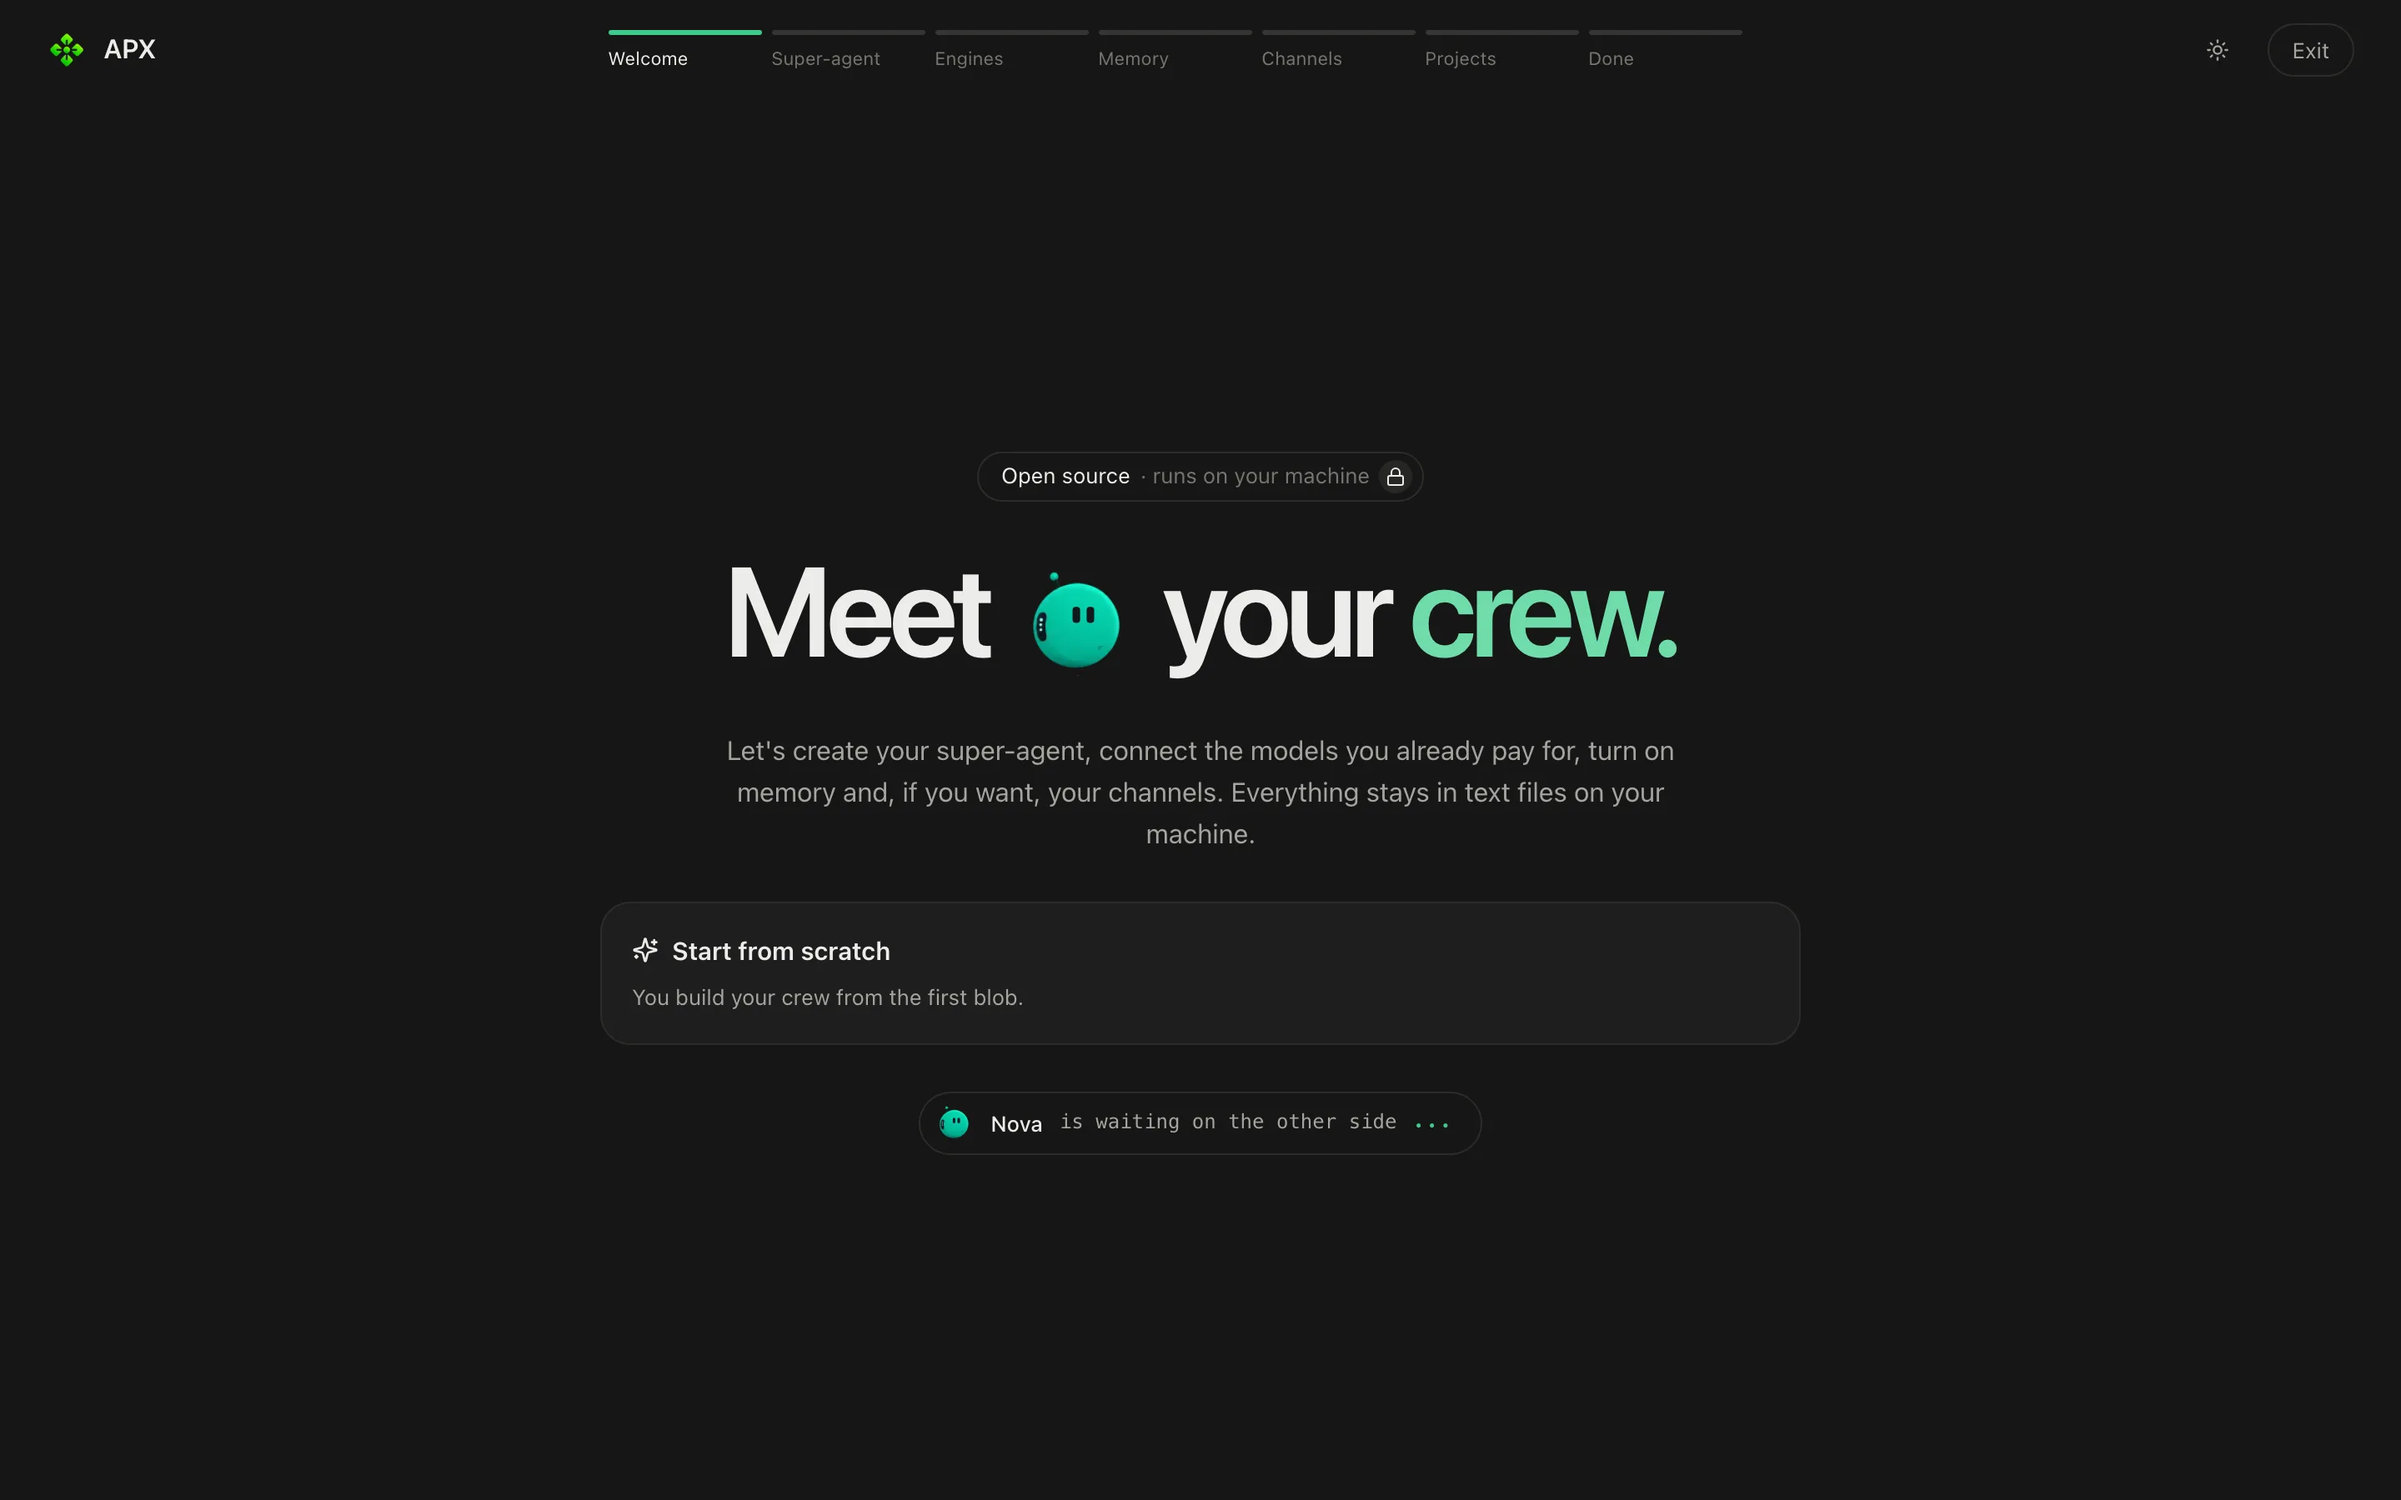
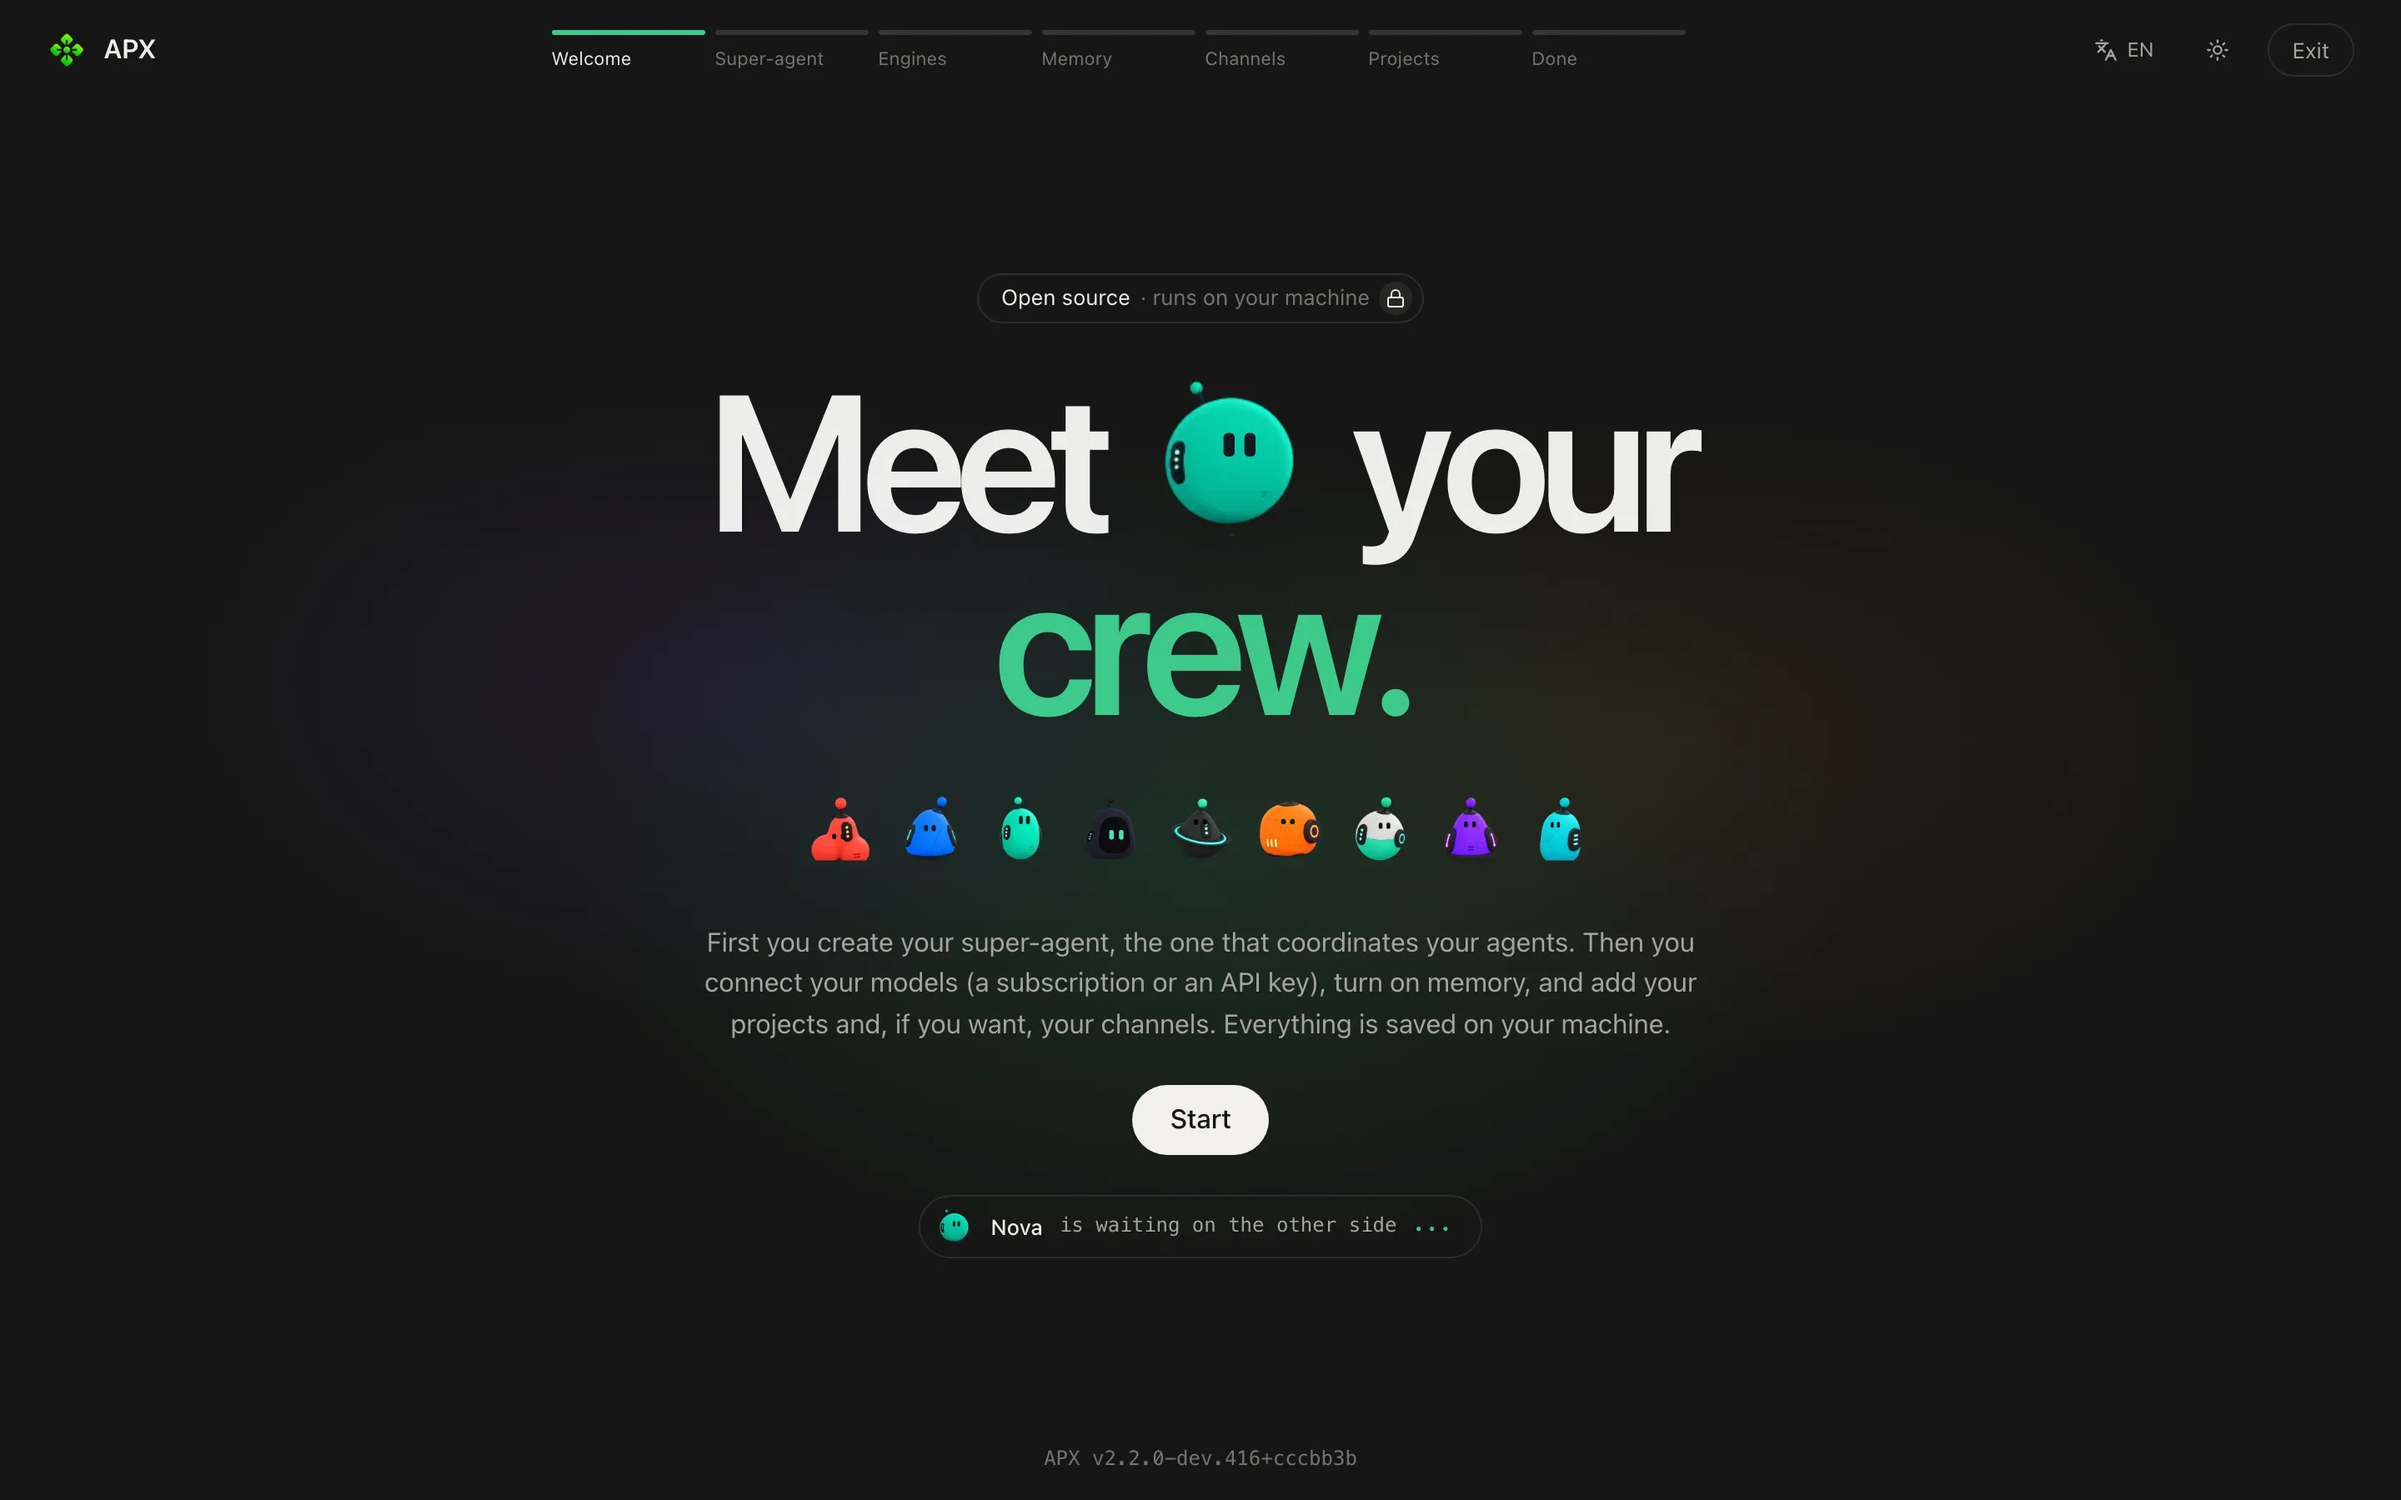
fix(setup): the welcome says what the setup builds, agents and projects included, and where it is kept
It sounded like a sale ("the models you already pay for") and said everything stayed in text files, which v2's
local database no longer is. It now names the super-agent that coordinates the agents, the models, memory, projects
and channels, and says everything is saved on this machine. The docs and the engines step follow.

diff --git a/apps/web/src/i18n/es-setup.ts b/apps/web/src/i18n/es-setup.ts
@@ -20,13 +20,13 @@ export const esSetup: Partial<Record<MessageKey, string>> = {
   "setup.welcome.installed": "APX está instalado",
   "setup.welcome.installedMuted": "· y andando",
   "setup.welcome.installedBody":
-    "Te damos la bienvenida. APX ya está instalado y listo; ahora armamos tu crew: tu super-agente, los modelos que ya pagás, la memoria y, si querés, tus canales.",
+    "Te damos la bienvenida. APX ya está instalado; ahora armamos tu crew: tu super-agente, tus modelos, la memoria, tus proyectos y, si querés, tus canales.",
   "setup.welcome.pill": "Open source",
   "setup.welcome.pillMuted": "· corre en tu máquina",
   "setup.welcome.meet": "Conocé",
   "setup.welcome.your": "a tu",
   "setup.welcome.body":
-    "Vamos a crear tu super-agente, conectar los modelos que ya pagás, prender la memoria y, si querés, tus canales. Todo queda en archivos de texto en tu máquina.",
+    "Primero creás tu super-agente, el que coordina a tus agentes. Después conectás tus modelos (tu suscripción o una API key), prendés la memoria y sumás tus proyectos y, si querés, tus canales. Todo se guarda en tu máquina.",
   "setup.welcome.new": "Empezar de cero",
   "setup.welcome.newBody": "Armás tu crew desde el primer blob.",
   "setup.welcome.import": "Importar desde APX v1",
@@ -94,7 +94,7 @@ export const esSetup: Partial<Record<MessageKey, string>> = {
   "setup.agent.needName": "Poné un nombre",
   "setup.engines.kicker": "MOTORES",
   "setup.engines.title": "Con los modelos",
-  "setup.engines.titleGreen": "que ya pagás.",
+  "setup.engines.titleGreen": "que ya usás.",
   "setup.engines.body":
     "Iniciá sesión con tu suscripción o pegá una API key. El primero de la cadena es el default; si falla, sigue el próximo.",
   "setup.engines.addKey": "Agregar API key",

diff --git a/apps/web/src/i18n/en-setup.ts b/apps/web/src/i18n/en-setup.ts
@@ -18,13 +18,13 @@ export const enSetup = {
   "setup.welcome.installed": "APX is installed",
   "setup.welcome.installedMuted": "· and running",
   "setup.welcome.installedBody":
-    "Welcome. APX is installed and ready; next we set up your crew: your super-agent, the models you already pay for, memory and, if you want, your channels.",
+    "Welcome. APX is installed; now we set up your crew: your super-agent, your models, memory, your projects and, if you want, your channels.",
   "setup.welcome.pill": "Open source",
   "setup.welcome.pillMuted": "· runs on your machine",
   "setup.welcome.meet": "Meet",
   "setup.welcome.your": "your",
   "setup.welcome.body":
-    "Let's create your super-agent, connect the models you already pay for, turn on memory and, if you want, your channels. Everything stays in text files on your machine.",
+    "First you create your super-agent, the one that coordinates your agents. Then you connect your models (a subscription or an API key), turn on memory, and add your projects and, if you want, your channels. Everything is saved on your machine.",
   "setup.welcome.new": "Start from scratch",
   "setup.welcome.newBody": "You build your crew from the first blob.",
   "setup.welcome.import": "Import from APX v1",
@@ -93,7 +93,7 @@ export const enSetup = {
   "setup.agent.needName": "Give it a name",
   "setup.engines.kicker": "ENGINES",
   "setup.engines.title": "With the models",
-  "setup.engines.titleGreen": "you already pay for.",
+  "setup.engines.titleGreen": "you already use.",
   "setup.engines.body":
     "Sign in with your subscription or paste an API key. The first in the chain is the default; if it fails, the next one takes over.",
   "setup.engines.addKey": "Add API key",

diff --git a/e2e/specs/01-setup.spec.ts b/e2e/specs/01-setup.spec.ts
@@ -168,7 +168,7 @@ test("right after the desktop app installs APX, the setup's welcome says so, onc
   await page.getByRole("menuitem", { name: "Configuración inicial" }).click();
   const wizard = page.locator(".wiz");
   await expect(wizard.getByText("APX está instalado")).toBeVisible();
-  await expect(wizard.getByText(/APX ya está instalado y listo/)).toBeVisible();
+  await expect(wizard.getByText(/APX ya está instalado; ahora armamos tu crew/)).toBeVisible();
   // v1 is on this machine: the two ways in stay.
   await expect(wizard.getByRole("button", { name: /Importar desde APX v1/ })).toBeVisible();
   expect(new URL(page.url()).searchParams.has("welcome")).toBe(false);
